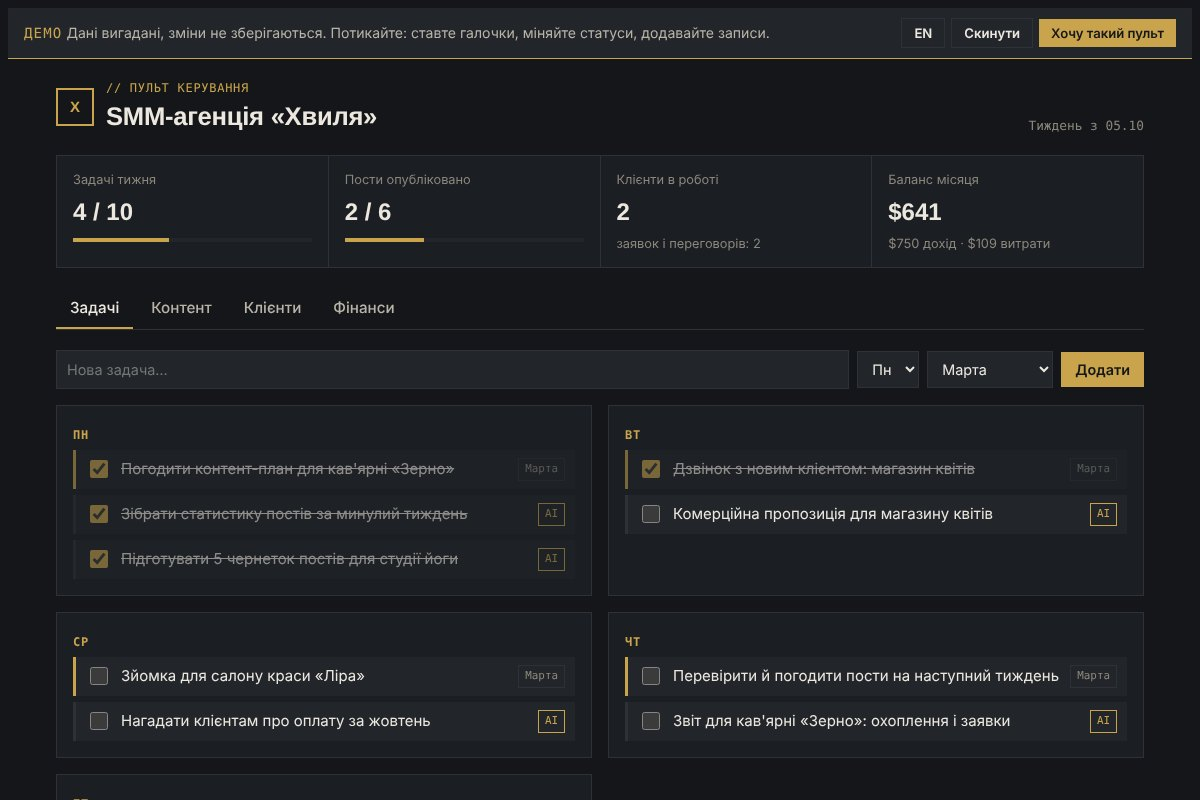
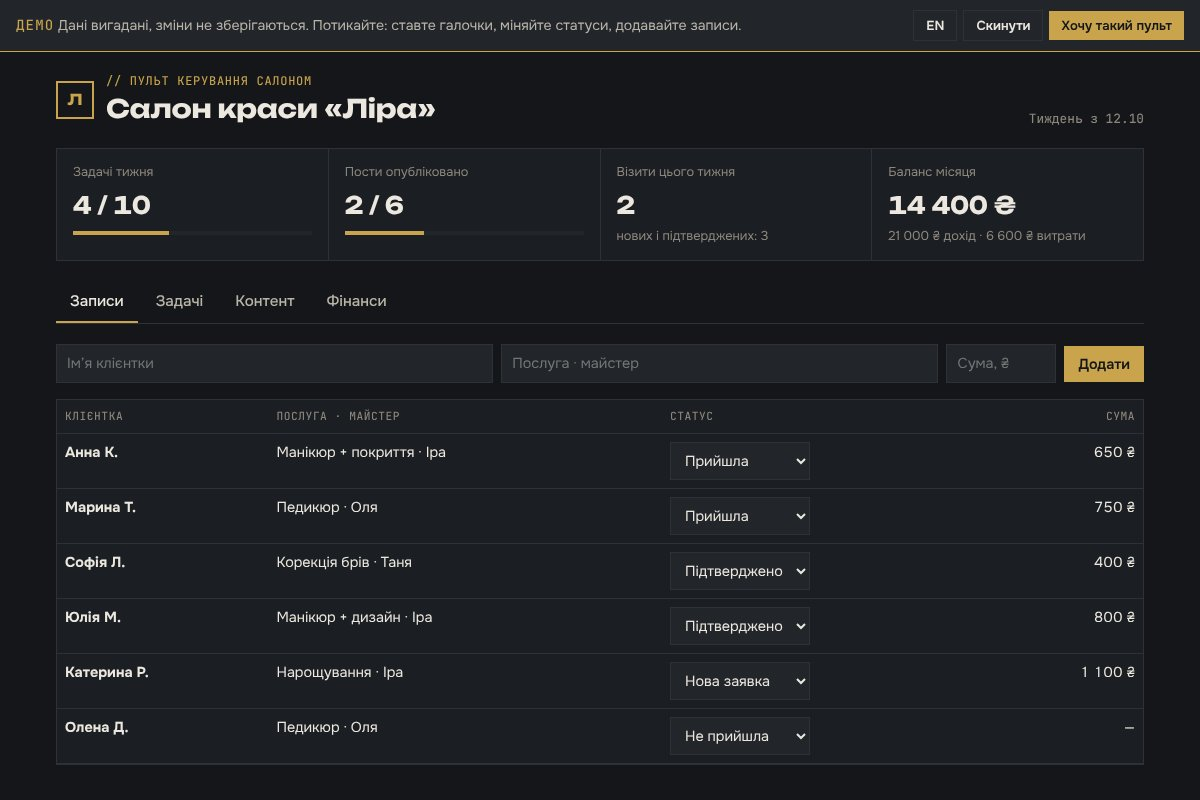
CRM demo: salon data instead of SMM agency, new cover
Claude-Session: https://claude.ai/code/session_01Jngt4kUVRnDhjKCon4orKQ

diff --git a/public/demo/pult/demo.js b/public/demo/pult/demo.js
@@ -6,63 +6,65 @@
   var T = {
     uk: {
       demoTag: 'ДЕМО', demoText: 'Дані вигадані, зміни не зберігаються. Потикайте: ставте галочки, міняйте статуси, додавайте записи.',
-      reset: 'Скинути', cta: 'Хочу такий пульт', kick: '// пульт керування', brand: 'SMM-агенція «Хвиля»',
-      sTasks: 'Задачі тижня', sPosts: 'Пости опубліковано', sClients: 'Клієнти в роботі', sMoney: 'Баланс місяця',
-      tTasks: 'Задачі', tPosts: 'Контент', tClients: 'Клієнти', tMoney: 'Фінанси', add: 'Додати',
+      reset: 'Скинути', cta: 'Хочу такий пульт', kick: '// пульт керування салоном', brand: 'Салон краси «Ліра»', mark: 'Л', cur: '₴',
+      sTasks: 'Задачі тижня', sPosts: 'Пости опубліковано', sClients: 'Візити цього тижня', sMoney: 'Баланс місяця',
+      tTasks: 'Задачі', tPosts: 'Контент', tClients: 'Записи', tMoney: 'Фінанси', add: 'Додати',
       postsNote: 'План публікацій. «Готово» означає, що пост погоджено, і автопостинг опублікує його в дату.',
-      thDate: 'Дата', thRubric: 'Рубрика', thTopic: 'Тема', thWhere: 'Куди', thStatus: 'Статус', thClient: 'Клієнт', thService: 'Що потрібно', thStage: 'Етап', thAmount: 'Сума', thNote: 'Опис',
-      foot: 'Це демо. Справжній пульт синхронізується між власником, командою і AI-асистентом, який сам оновлює задачі, контент-план і звіти.',
-      phTask: 'Нова задача…', phClient: 'Клієнт або компанія', phService: 'Що потрібно', phAmount: 'Сума, $', phNote: 'За що',
-      week: 'Тиждень з ', days: ['Пн', 'Вт', 'Ср', 'Чт', 'Пт', 'Сб', 'Нд'], owner: 'Марта', ai: 'AI', ownerFull: 'Марта', aiFull: 'AI-асистент',
+      thDate: 'Дата', thRubric: 'Рубрика', thTopic: 'Тема', thWhere: 'Куди', thStatus: 'Статус', thClient: 'Клієнтка', thService: 'Послуга · майстер', thStage: 'Статус', thAmount: 'Сума', thNote: 'Опис',
+      foot: 'Це демо. Справжній пульт синхронізується з ботом запису: нові записи, підтвердження і нагадування з’являються тут самі, а AI-асистент рахує завантаження майстрів і виручку.',
+      phTask: 'Нова задача…', phClient: 'Ім’я клієнтки', phService: 'Послуга · майстер', phAmount: 'Сума, ₴', phNote: 'За що',
+      week: 'Тиждень з ', days: ['Пн', 'Вт', 'Ср', 'Чт', 'Пт', 'Сб', 'Нд'], owner: 'Олена', ai: 'AI', ownerFull: 'Олена (власниця)', aiFull: 'AI-асистент',
       status: { draft: 'Чернетка', ready: 'Готово', done: 'Опубліковано', err: 'Помилка' },
-      stages: ['Заявка', 'Переговори', 'В роботі', 'Здано', 'Відмова'], leads: 'заявок і переговорів: ', income: ' дохід · ', expense: ' витрати',
+      stages: ['Нова заявка', 'Підтверджено', 'Прийшла', 'Не прийшла', 'Скасовано'], leads: 'нових і підтверджених: ', income: ' дохід · ', expense: ' витрати',
       inOut: { out: 'Витрата', 'in': 'Дохід' }, emptyTasks: 'На цей тиждень задач немає. Додайте першу.',
       tasks: [
-        ['Пн', 'me', 'Погодити контент-план для кав\'ярні «Зерно»', true], ['Пн', 'ai', 'Зібрати статистику постів за минулий тиждень', true],
-        ['Пн', 'ai', 'Підготувати 5 чернеток постів для студії йоги', true], ['Вт', 'me', 'Дзвінок з новим клієнтом: магазин квітів', true],
-        ['Вт', 'ai', 'Комерційна пропозиція для магазину квітів', false], ['Ср', 'me', 'Зйомка для салону краси «Ліра»', false],
-        ['Ср', 'ai', 'Нагадати клієнтам про оплату за жовтень', false], ['Чт', 'me', 'Перевірити й погодити пости на наступний тиждень', false],
-        ['Чт', 'ai', 'Звіт для кав\'ярні «Зерно»: охоплення і заявки', false], ['Пт', 'me', 'Підсумки тижня і план на наступний', false]
+        ['Пн', 'ai', 'Нагадати 14 клієнткам про запис на завтра', true], ['Пн', 'me', 'Замовити гель-лаки і базу у постачальника', true],
+        ['Пн', 'ai', 'Знайти «вікна» у графіку й запропонувати їх у сторіз', true], ['Вт', 'me', 'Погодити графік майстрів на листопад', true],
+        ['Вт', 'ai', 'Написати клієнткам, які не були 6+ тижнів', false], ['Ср', 'me', 'Співбесіда з новою майстринею педикюру', false],
+        ['Ср', 'ai', 'Зібрати відгуки після вчорашніх візитів', false], ['Чт', 'me', 'Зйомка робіт для Instagram', false],
+        ['Чт', 'ai', 'Звіт: завантаження майстрів і виручка за тиждень', false], ['Пт', 'me', 'Підсумки тижня і акція на вихідні', false]
       ],
       posts: [
-        [-3, 'Кейс', 'Як кав\'ярня отримала 40 замовлень через Instagram', 'done'], [-1, 'Порада', '5 помилок у сторіз малого бізнесу', 'done'],
-        [1, 'Практика', 'Контент-план на місяць за 1 годину', 'ready'], [3, 'Кейс', 'Студія йоги: запуск з нуля', 'ready'],
-        [5, 'Порада', 'Як відповідати на негативні коментарі', 'draft'], [8, 'Практика', 'Шаблони сторіз для салону краси', 'draft']
+        [-3, 'Роботи', 'Нюдовий манікюр на короткі нігті: до і після', 'done'], [-1, 'Порада', 'Як продовжити носіння покриття до 4 тижнів', 'done'],
+        [1, 'Акція', 'Манікюр + педикюр у четвер: −15%', 'ready'], [3, 'Майстри', 'Знайомтесь: Іра, топ-майстер манікюру', 'ready'],
+        [5, 'Порада', 'Догляд за кутикулою вдома', 'draft'], [8, 'Роботи', 'Осінні дизайни: 6 ідей', 'draft']
       ],
-      clients: [['Кав\'ярня «Зерно»', 'Ведення Instagram', 'В роботі', 450], ['Студія йоги «Прана»', 'Запуск акаунта', 'В роботі', 600],
-        ['Магазин квітів «Букет»', 'Таргетована реклама', 'Переговори', 350], ['Салон краси «Ліра»', 'Контент і зйомка', 'Заявка', 0]],
-      money: [[-9, 'in', 450, 'Кав\'ярня «Зерно», жовтень'], [-6, 'in', 300, 'Студія йоги, передоплата 50%'], [-5, 'out', 29, 'Сервіс автопостингу'],
-        [-4, 'out', 20, 'Підписка на AI'], [-2, 'out', 60, 'Реклама агенції']]
+      clients: [['Анна К.', 'Манікюр + покриття · Іра', 'Прийшла', 650], ['Марина Т.', 'Педикюр · Оля', 'Прийшла', 750],
+        ['Софія Л.', 'Корекція брів · Таня', 'Підтверджено', 400], ['Юлія М.', 'Манікюр + дизайн · Іра', 'Підтверджено', 800],
+        ['Катерина Р.', 'Нарощування · Іра', 'Нова заявка', 1100], ['Олена Д.', 'Педикюр · Оля', 'Не прийшла', 0]],
+      money: [[-9, 'in', 18400, 'Виручка за минулий тиждень'], [-6, 'in', 2600, 'Продаж догляду (олійки, креми)'], [-5, 'out', 4200, 'Матеріали: гель-лаки, база, топ'],
+        [-4, 'out', 900, 'Бот запису і AI-асистент'], [-2, 'out', 1500, 'Реклама в Instagram']]
     },
     en: {
       demoTag: 'DEMO', demoText: 'Sample data, changes are not saved. Try it: tick tasks, change statuses, add rows.',
-      reset: 'Reset', cta: 'I want this cockpit', kick: '// business cockpit', brand: '«Wave» SMM Agency',
-      sTasks: 'Tasks this week', sPosts: 'Posts published', sClients: 'Active clients', sMoney: 'Month balance',
-      tTasks: 'Tasks', tPosts: 'Content', tClients: 'Clients', tMoney: 'Finance', add: 'Add',
+      reset: 'Reset', cta: 'I want this cockpit', kick: '// salon cockpit', brand: '«Lyra» Beauty Salon', mark: 'L', cur: '$',
+      sTasks: 'Tasks this week', sPosts: 'Posts published', sClients: 'Visits this week', sMoney: 'Month balance',
+      tTasks: 'Tasks', tPosts: 'Content', tClients: 'Bookings', tMoney: 'Finance', add: 'Add',
       postsNote: 'Publishing plan. “Ready” means the post is approved and autoposting will publish it on the date.',
-      thDate: 'Date', thRubric: 'Rubric', thTopic: 'Topic', thWhere: 'Where', thStatus: 'Status', thClient: 'Client', thService: 'Need', thStage: 'Stage', thAmount: 'Amount', thNote: 'Note',
-      foot: 'This is a demo. The real cockpit syncs between the owner, the team and an AI assistant that updates tasks, the content plan and reports by itself.',
-      phTask: 'New task…', phClient: 'Client or company', phService: 'What they need', phAmount: 'Amount, $', phNote: 'What for',
-      week: 'Week of ', days: ['Mon', 'Tue', 'Wed', 'Thu', 'Fri', 'Sat', 'Sun'], owner: 'Marta', ai: 'AI', ownerFull: 'Marta', aiFull: 'AI assistant',
+      thDate: 'Date', thRubric: 'Rubric', thTopic: 'Topic', thWhere: 'Where', thStatus: 'Status', thClient: 'Client', thService: 'Service · master', thStage: 'Status', thAmount: 'Amount', thNote: 'Note',
+      foot: 'This is a demo. The real cockpit syncs with the booking bot: new bookings, confirmations and reminders appear here automatically, and the AI assistant tracks master workload and revenue.',
+      phTask: 'New task…', phClient: 'Client name', phService: 'Service · master', phAmount: 'Amount, $', phNote: 'What for',
+      week: 'Week of ', days: ['Mon', 'Tue', 'Wed', 'Thu', 'Fri', 'Sat', 'Sun'], owner: 'Olena', ai: 'AI', ownerFull: 'Olena (owner)', aiFull: 'AI assistant',
       status: { draft: 'Draft', ready: 'Ready', done: 'Published', err: 'Error' },
-      stages: ['Lead', 'Talks', 'In progress', 'Delivered', 'Lost'], leads: 'leads and talks: ', income: ' income · ', expense: ' expenses',
+      stages: ['New request', 'Confirmed', 'Came', 'No-show', 'Cancelled'], leads: 'new and confirmed: ', income: ' income · ', expense: ' expenses',
       inOut: { out: 'Expense', 'in': 'Income' }, emptyTasks: 'No tasks this week yet. Add the first one.',
       tasks: [
-        ['Mon', 'me', 'Approve the content plan for “Grain” café', true], ['Mon', 'ai', 'Collect last week\'s post statistics', true],
-        ['Mon', 'ai', 'Draft 5 posts for the yoga studio', true], ['Tue', 'me', 'Call with a new client: flower shop', true],
-        ['Tue', 'ai', 'Proposal for the flower shop', false], ['Wed', 'me', 'Photo shoot for “Lyra” beauty salon', false],
-        ['Wed', 'ai', 'Remind clients about October invoices', false], ['Thu', 'me', 'Review and approve next week\'s posts', false],
-        ['Thu', 'ai', 'Report for “Grain” café: reach and leads', false], ['Fri', 'me', 'Weekly review and next week\'s plan', false]
+        ['Mon', 'ai', 'Remind 14 clients about tomorrow\'s bookings', true], ['Mon', 'me', 'Order gel polish and base from the supplier', true],
+        ['Mon', 'ai', 'Find free slots and offer them in Stories', true], ['Tue', 'me', 'Approve the masters\' November schedule', true],
+        ['Tue', 'ai', 'Message clients who haven\'t visited in 6+ weeks', false], ['Wed', 'me', 'Interview a new pedicure master', false],
+        ['Wed', 'ai', 'Collect reviews after yesterday\'s visits', false], ['Thu', 'me', 'Photo shoot of works for Instagram', false],
+        ['Thu', 'ai', 'Report: master workload and weekly revenue', false], ['Fri', 'me', 'Weekly review and a weekend offer', false]
       ],
       posts: [
-        [-3, 'Case', 'How a café got 40 orders from Instagram', 'done'], [-1, 'Tip', '5 Stories mistakes small businesses make', 'done'],
-        [1, 'How-to', 'A month of content planned in 1 hour', 'ready'], [3, 'Case', 'Yoga studio: launch from scratch', 'ready'],
-        [5, 'Tip', 'How to answer negative comments', 'draft'], [8, 'How-to', 'Stories templates for a beauty salon', 'draft']
+        [-3, 'Works', 'Nude manicure on short nails: before and after', 'done'], [-1, 'Tip', 'How to make your polish last 4 weeks', 'done'],
+        [1, 'Offer', 'Manicure + pedicure on Thursday: −15%', 'ready'], [3, 'Team', 'Meet Ira, our top manicure master', 'ready'],
+        [5, 'Tip', 'Cuticle care at home', 'draft'], [8, 'Works', 'Autumn designs: 6 ideas', 'draft']
       ],
-      clients: [['“Grain” café', 'Instagram management', 'In progress', 450], ['“Prana” yoga studio', 'Account launch', 'In progress', 600],
-        ['“Bouquet” flower shop', 'Paid ads', 'Talks', 350], ['“Lyra” beauty salon', 'Content and photo', 'Lead', 0]],
-      money: [[-9, 'in', 450, '“Grain” café, October'], [-6, 'in', 300, 'Yoga studio, 50% prepayment'], [-5, 'out', 29, 'Autoposting service'],
-        [-4, 'out', 20, 'AI subscription'], [-2, 'out', 60, 'Agency ads']]
+      clients: [['Anna K.', 'Manicure + gel · Ira', 'Came', 18], ['Maryna T.', 'Pedicure · Olia', 'Came', 20],
+        ['Sofia L.', 'Brow shaping · Tania', 'Confirmed', 11], ['Yulia M.', 'Manicure + design · Ira', 'Confirmed', 22],
+        ['Kateryna R.', 'Nail extensions · Ira', 'New request', 30], ['Olena D.', 'Pedicure · Olia', 'No-show', 0]],
+      money: [[-9, 'in', 450, 'Last week\'s revenue'], [-6, 'in', 65, 'Retail: oils and creams'], [-5, 'out', 100, 'Supplies: gel polish, base, top'],
+        [-4, 'out', 22, 'Booking bot and AI assistant'], [-2, 'out', 36, 'Instagram ads']]
     }
   };
 
@@ -74,7 +76,7 @@
   function shift(n) { var d = new Date(); d.setDate(d.getDate() + n); return iso(d); }
   function monday() { var d = new Date(); var w = (d.getDay() + 6) % 7; d.setDate(d.getDate() - w); return iso(d); }
   function fmtDate(s) { var p = s.split('-'); return p[2] + '.' + p[1]; }
-  function money(n) { return (n < 0 ? '−' : '') + '$' + Math.abs(n).toLocaleString(lang === 'uk' ? 'uk-UA' : 'en-US', { maximumFractionDigits: 2 }); }
+  function money(n) { var c = T[lang].cur; return (n < 0 ? '−' : '') + (c === '$' ? '$' : '') + Math.abs(n).toLocaleString(lang === 'uk' ? 'uk-UA' : 'en-US', { maximumFractionDigits: 2 }) + (c === '$' ? '' : ' ' + c); }
 
   function seed() {
     var t = T[lang], id = 0;
@@ -93,7 +95,7 @@
     document.querySelectorAll('[data-ph]').forEach(function (el) { el.placeholder = t[el.dataset.ph]; });
     $('#langBtn').textContent = lang === 'uk' ? 'EN' : 'UA';
     document.querySelector('[data-t="cta"]').setAttribute('href', lang === 'uk' ? '/contact/' : '/en/contact/');
-    $('.mark').textContent = lang === 'uk' ? 'Х' : 'W';
+    $('.mark').textContent = T[lang].mark;
     $('#newTaskDay').innerHTML = t.days.map(function (d) { return '<option>' + d + '</option>'; }).join('');
     $('#newTaskWho').innerHTML = '<option value="me">' + t.ownerFull + '</option><option value="ai">' + t.aiFull + '</option>';
     $('#mType').innerHTML = '<option value="out">' + t.inOut.out + '</option><option value="in">' + t.inOut['in'] + '</option>';

diff --git a/public/demo/pult/index.html b/public/demo/pult/index.html
@@ -1,7 +1,7 @@
 <!doctype html>
 <html lang="uk" style="background:#141619"><head><meta charset="utf-8"><meta name="viewport" content="width=device-width,initial-scale=1">
-<title>Демо: AI-пульт керування бізнесом · Borovyk Automation</title>
-<meta name="description" content="Інтерактивне демо пульта керування малим бізнесом: задачі власника й AI-асистента, контент-план, клієнти і фінанси.">
+<title>Демо: CRM салону краси з AI-асистентом · Borovyk Automation</title>
+<meta name="description" content="Інтерактивне демо CRM для салону краси: записи клієнток, задачі власниці й AI-асистента, контент-план і фінанси.">
 <meta name="robots" content="noindex">
 <link rel="icon" href="/favicon.svg">
 <link rel="preconnect" href="https://fonts.googleapis.com"><link rel="preconnect" href="https://fonts.gstatic.com" crossorigin>
@@ -83,8 +83,8 @@ a.btn{color:var(--on-brass)}
   <span class="row" style="gap:6px"><button class="btn g sm" id="langBtn" type="button">EN</button><button class="btn g sm" id="resetBtn" type="button" data-t="reset">Скинути</button><a class="btn sm" href="https://borovyk-automation.com/contact/" target="_top" data-t="cta">Хочу такий пульт</a></span></div>
 <div class="wrap">
   <header class="top">
-    <div class="brand"><div class="mark" aria-hidden="true">Х</div>
-      <div><p class="kick" data-t="kick">// пульт керування</p><h1 data-t="brand">SMM-агенція «Хвиля»</h1></div></div>
+    <div class="brand"><div class="mark" aria-hidden="true">Л</div>
+      <div><p class="kick" data-t="kick">// пульт керування салоном</p><h1 data-t="brand">Салон краси «Ліра»</h1></div></div>
     <span class="week" id="weekLabel"></span>
   </header>
   <div class="stats" aria-label="Summary">
@@ -94,7 +94,7 @@ a.btn{color:var(--on-brass)}
     <div class="stat"><span data-t="sMoney">Баланс місяця</span><b id="kMoney">—</b><span id="kMoneySub"></span></div>
   </div>
   <nav class="tabs" role="tablist">
-    <button role="tab" aria-selected="true" data-tab="clients" data-t="tClients">Клієнти</button>
+    <button role="tab" aria-selected="true" data-tab="clients" data-t="tClients">Записи</button>
     <button role="tab" aria-selected="false" data-tab="tasks" data-t="tTasks">Задачі</button>
     <button role="tab" aria-selected="false" data-tab="posts" data-t="tPosts">Контент</button>
         <button role="tab" aria-selected="false" data-tab="money" data-t="tMoney">Фінанси</button>
@@ -122,7 +122,7 @@ a.btn{color:var(--on-brass)}
       <button class="btn" id="addClient" type="button" data-t="add">Додати</button>
     </div>
     <div class="tbl box" style="padding:0"><table>
-      <thead><tr><th data-t="thClient">Клієнт</th><th data-t="thService">Що потрібно</th><th data-t="thStage">Етап</th><th style="text-align:right" data-t="thAmount">Сума</th></tr></thead>
+      <thead><tr><th data-t="thClient">Клієнтка</th><th data-t="thService">Послуга · майстер</th><th data-t="thStage">Статус</th><th style="text-align:right" data-t="thAmount">Сума</th></tr></thead>
       <tbody id="clientRows"></tbody></table></div>
   </section>
   <section class="pane" id="p-money" hidden>

diff --git a/src/content/cases/uk/ai-business-cockpit.md b/src/content/cases/uk/ai-business-cockpit.md
@@ -2,12 +2,12 @@
 title: "CRM під ваш бізнес з AI-асистентом"
 description: "Одна сторінка, де власник і AI-асистент разом ведуть задачі тижня, контент-план, клієнтів і фінанси. Інтерактивне демо прямо на сторінці."
 meta: "ПУЛЬТ · AI-АСИСТЕНТ · ДАШБОРД"
-summary: "Не підписка на чужу CRM, а система, яку я будую під ваші процеси: клієнти, задачі, контент і фінанси на одному екрані, а AI-асистент сам оновлює статуси й рахує аналітику. Демо нижче."
+summary: "Не підписка на чужу CRM, а система, яку я будую під ваші процеси: клієнти, задачі, контент і фінанси на одному екрані, а AI-асистент сам оновлює статуси й рахує аналітику. Демо нижче на прикладі салону краси."
 category: ["dev", "ana"]
 order: 2
 has_page: true
 thumb: /img/cases/cover-pult.jpg
-cover_alt: "Пульт керування бізнесом: задачі тижня, контент, клієнти і фінанси"
+cover_alt: "CRM салону краси: записи клієнток, статуси візитів, задачі, контент і фінанси"
 demo: { src: "/demo/pult/", height: 820 }
 stack: ["CLAUDE", "JAVASCRIPT", "REALTIME DB", "TELEGRAM", "MAKE.COM"]
 facts:
@@ -18,7 +18,7 @@ task_title: "Бізнес розкиданий по десятку місць"
 task: "Задачі в нотатках, контент-план у таблиці, клієнти в месенджерах, витрати в голові. Щоб зрозуміти, як іде тиждень, треба відкрити п'ять сервісів, і щось обов'язково губиться."
 solution_title: "Один екран, який оновлюється сам"
 solution: "Це не готовий сервіс із щомісячною підпискою, до якого треба підлаштовуватись. Я збираю таку систему під конкретний бізнес: тільки ті розділи, цифри й автоматизації, які вам потрібні, і AI-аналітику під ваші питання.\n\nПульт збирає все, що потрібно власнику щодня: задачі тижня, план публікацій, воронку клієнтів і баланс місяця. Зверху чотири цифри, за якими одразу видно стан справ.\n\nДані живуть у базі, тож пульт однаковий на комп'ютері й телефоні. AI-асистент має до неї доступ: складає план тижня, відмічає виконане, оновлює статуси постів і записує нових клієнтів із заявок."
-solution_points: ["Задачі власника і AI-асистента в одному списку", "Контент-план зі статусами для автопостингу", "Воронка клієнтів: заявка, переговори, робота, здано", "Доходи, витрати і баланс місяця", "Працює з телефона, синхронізація в реальному часі"]
+solution_points: ["Задачі власника і AI-асистента в одному списку", "Контент-план зі статусами для автопостингу", "Записи клієнтів: заявка, підтвердження, візит, неявка", "Доходи, витрати і баланс місяця", "Працює з телефона, синхронізація в реальному часі"]
 flow:
   - { code: "OWNER", name: "Власник", sub: "галочки, нові записи" }
   - { code: "DB", name: "База даних", sub: "задачі, пости, клієнти, гроші" }

diff --git a/src/content/cases/en/ai-business-cockpit.md b/src/content/cases/en/ai-business-cockpit.md
@@ -2,12 +2,12 @@
 title: "A CRM built for your business, with an AI assistant"
 description: "One page where the owner and an AI assistant run the week's tasks, content plan, clients and finances together. Interactive demo right on the page."
 meta: "COCKPIT · AI ASSISTANT · DASHBOARD"
-summary: "Not a subscription to someone else's CRM, but a system I build around your processes: clients, tasks, content and finances on one screen, with an AI assistant that updates statuses and runs the analytics. Demo below."
+summary: "Not a subscription to someone else's CRM, but a system I build around your processes: clients, tasks, content and finances on one screen, with an AI assistant that updates statuses and runs the analytics. Demo below, set up for a beauty salon."
 category: ["dev", "ana"]
 order: 2
 has_page: true
 thumb: /img/cases/cover-pult.jpg
-cover_alt: "Business cockpit: weekly tasks, content, clients and finances"
+cover_alt: "Beauty salon CRM: client bookings, visit statuses, tasks, content and finances"
 demo: { src: "/demo/pult/", height: 820 }
 stack: ["CLAUDE", "JAVASCRIPT", "REALTIME DB", "TELEGRAM", "MAKE.COM"]
 facts:
@@ -18,7 +18,7 @@ task_title: "The business is scattered across ten places"
 task: "Tasks in notes, the content plan in a spreadsheet, clients in messengers, expenses in your head. To see how the week is going you open five services, and something always slips."
 solution_title: "One screen that updates itself"
 solution: "This is not an off-the-shelf service with a monthly fee that you have to adapt to. I build it for a specific business: only the sections, numbers and automations you need, plus AI analytics for your questions.\n\nThe cockpit gathers what an owner needs every day: the week's tasks, the publishing plan, the client pipeline and the month's balance. Four numbers on top show the state of things at a glance.\n\nData lives in a database, so the cockpit is the same on desktop and phone. The AI assistant has access too: it drafts the weekly plan, ticks off finished work, updates post statuses and logs new clients from incoming requests."
-solution_points: ["Owner's and AI assistant's tasks in one list", "Content plan with statuses for autoposting", "Client pipeline: lead, talks, in progress, delivered", "Income, expenses and month balance", "Works on a phone, syncs in real time"]
+solution_points: ["Owner's and AI assistant's tasks in one list", "Content plan with statuses for autoposting", "Client bookings: request, confirmed, visit, no-show", "Income, expenses and month balance", "Works on a phone, syncs in real time"]
 flow:
   - { code: "OWNER", name: "Owner", sub: "ticks, new rows" }
   - { code: "DB", name: "Database", sub: "tasks, posts, clients, money" }
